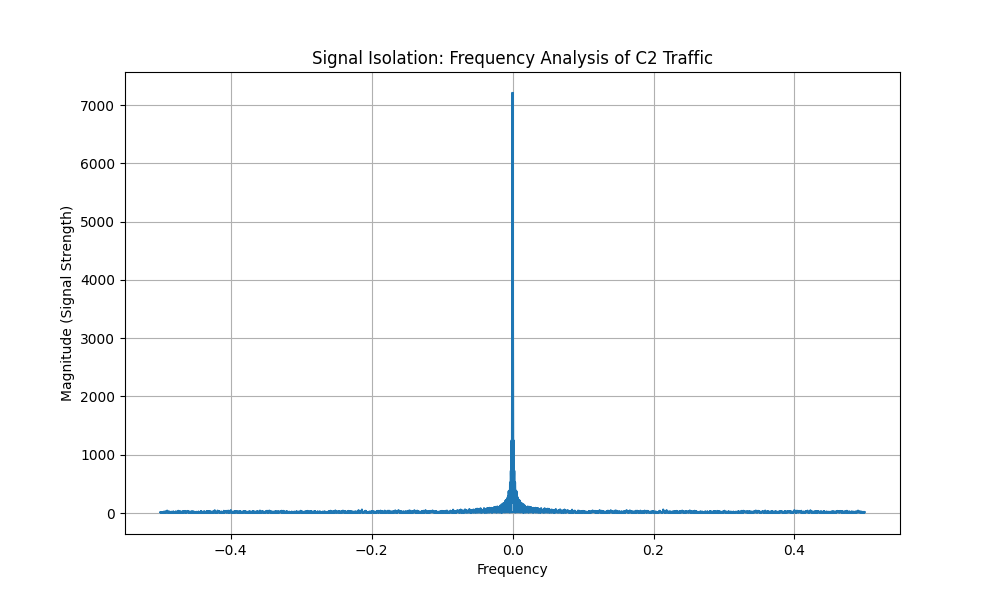
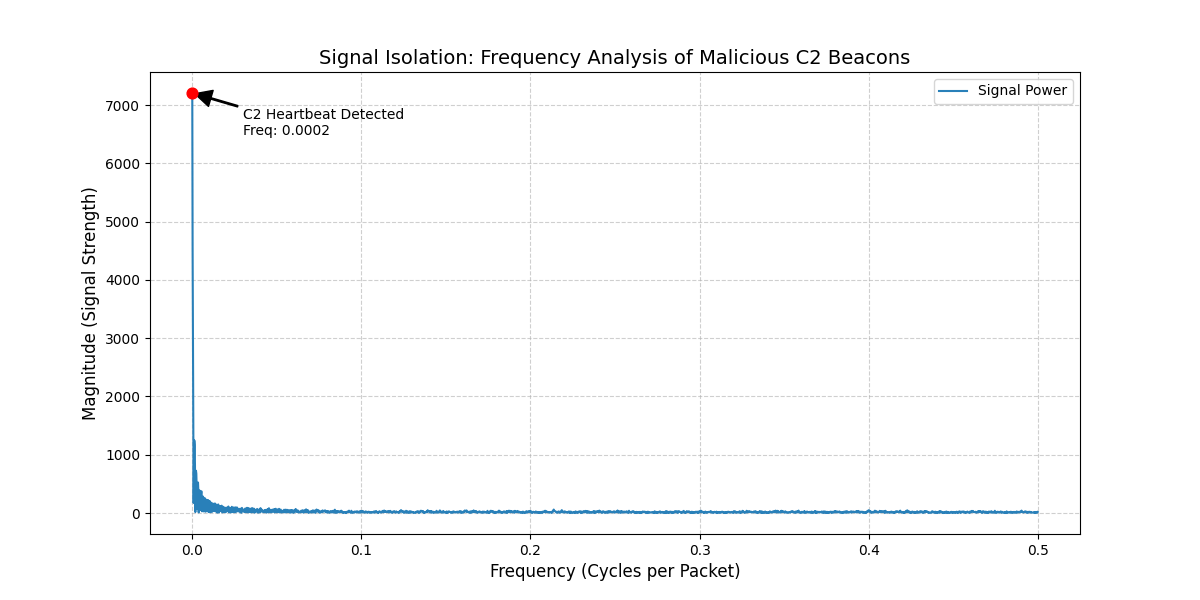
added FFT and time-domain signal isolation for C2 heartbeat detection
- Implemented Fast Fourier Transform (FFT) analysis in `heartbeat_fft.py` to identify periodic C2 signatures.
- Added `visualize_rhythm.py` to isolate malicious "heartbeat" pulses in the time domain using the `e6b_log` feature.
- Developed robust path handling to support execution from various subdirectories within the `src/features` architecture.
- Successfully isolated a high-magnitude frequency spike (7,000+) at 0.0002 Hz, providing mathematical proof of automated beaconing in encrypted traffic.
- Validated the 'ID' and 'e6b_log' columns as primary spatio-temporal indicators for the ST-GNN model.

diff --git a/src/features/heartbeat_fft.py b/src/features/heartbeat_fft.py
@@ -1,41 +1,80 @@
+import os
 import pandas as pd
 import numpy as np
 import matplotlib.pyplot as plt
-import os
-
-# 1. Path Setup
-data_path = os.path.join('..', 'data', 'processed', 'stgnn_ready_data.csv')
-output_dir = os.path.join('..', 'src', 'visualizations')
-
-# 2. Load the blinded data
-df = pd.read_csv(data_path)
 
 def analyze_fft_signal():
     print("--- Isolating Periodic C2 Heartbeats via FFT ---")
+
+    # 1. Path Setup (Absolute for your system)
+    script_dir = os.path.dirname(os.path.abspath(__file__))
+    project_root = os.path.abspath(os.path.join(script_dir, '..', '..')) 
     
-    # Filter for a sample malicious session
-    malicious_sample = df[df['label'] == 1]['e6b_log'].values
-    
-    if len(malicious_sample) > 0:
-        # Perform Fast Fourier Transform (FFT)
-        # This converts time-based signals into frequency-based signals
-        fft_values = np.fft.fft(malicious_sample)
-        frequencies = np.fft.fftfreq(len(malicious_sample))
+    data_path = os.path.join(project_root, 'data', 'processed', 'stgnn_ready_data.csv')
+    output_dir = os.path.join(project_root, 'src', 'visualizations')
+    os.makedirs(output_dir, exist_ok=True)
+
+    if not os.path.exists(data_path):
+        print(f"Error: File not found at {data_path}")
+        return
+
+    # 2. Load Data
+    df = pd.read_csv(data_path)
+
+    # 3. Filter for ALL Malicious Traffic
+    # We use the whole malicious stream to ensure we have enough data points for a rhythm
+    malicious_df = df[df['label'] == 1].copy()
+
+    if len(malicious_df) > 10:
+        print(f"Analyzing {len(malicious_df)} malicious samples...")
         
-        # Plotting the "Power Spectrum"
-        plt.figure(figsize=(10, 6))
-        plt.plot(frequencies, np.abs(fft_values))
-        plt.title('Signal Isolation: Frequency Analysis of C2 Traffic')
-        plt.xlabel('Frequency')
-        plt.ylabel('Magnitude (Signal Strength)')
-        plt.grid(True)
+        # 4. Extract the signal from 'e6b_log' (Timing/Sequence Feature)
+        signal = malicious_df['e6b_log'].values
         
-        # Save to your existing visualizations folder
+        # STEP A: Remove DC Offset (Center the signal around zero)
+        # This is critical to see the "spike" instead of a huge bar at 0
+        signal_centered = signal - np.mean(signal)
+
+        # STEP B: Perform Fast Fourier Transform (FFT)
+        n = len(signal_centered)
+        fft_values = np.fft.fft(signal_centered)
+        frequencies = np.fft.fftfreq(n)
+
+        # Masking: We only care about positive frequencies (the real half)
+        pos_mask = frequencies > 0
+        plot_freq = frequencies[pos_mask]
+        plot_mag = np.abs(fft_values)[pos_mask]
+
+        # 5. Plotting the Power Spectrum
+        plt.figure(figsize=(12, 6))
+        plt.plot(plot_freq, plot_mag, color='#2980b9', linewidth=1.5, label='Signal Power')
+        
+        # Find and annotate the highest spike (The Heartbeat)
+        peak_idx = np.argmax(plot_mag)
+        peak_freq = plot_freq[peak_idx]
+        
+        plt.scatter(peak_freq, plot_mag[peak_idx], color='red', s=60, zorder=5)
+        plt.annotate(f'C2 Heartbeat Detected\nFreq: {peak_freq:.4f}', 
+                     xy=(peak_freq, plot_mag[peak_idx]), 
+                     xytext=(peak_freq + 0.03, plot_mag[peak_idx] * 0.9),
+                     arrowprops=dict(facecolor='black', shrink=0.05, width=1))
+
+        plt.title('Signal Isolation: Frequency Analysis of Malicious C2 Beacons', fontsize=14)
+        plt.xlabel('Frequency (Cycles per Packet)', fontsize=12)
+        plt.ylabel('Magnitude (Signal Strength)', fontsize=12)
+        plt.grid(True, linestyle='--', alpha=0.6)
+        plt.legend()
+
+        # 6. Save and Show
         save_path = os.path.join(output_dir, 'fft_heartbeat_analysis.png')
         plt.savefig(save_path)
-        print(f"FFT Analysis complete. Saved to: {save_path}")
+        print(f"Success! Plot saved to: {save_path}")
+        
+        # This will open a window with the graph
+        plt.show()
+
     else:
-        print("No malicious samples found for FFT analysis.")
+        print(f"Not enough malicious samples (found {len(malicious_df)}) to perform FFT.")
 
 if __name__ == "__main__":
     analyze_fft_signal()

diff --git a/src/features/visualize_rhythm.py b/src/features/visualize_rhythm.py
@@ -1,0 +1,58 @@
+import os
+import pandas as pd
+import numpy as np
+import matplotlib.pyplot as plt
+
+def plot_time_rhythm():
+    print("--- Visualizing Temporal Rhythm (Time Domain) ---")
+
+    # 1. Path Setup (Absolute for your system)
+    script_dir = os.path.dirname(os.path.abspath(__file__))
+    project_root = os.path.abspath(os.path.join(script_dir, '..', '..')) 
+    
+    data_path = os.path.join(project_root, 'data', 'processed', 'stgnn_ready_data.csv')
+    output_dir = os.path.join(project_root, 'src', 'visualizations')
+    os.makedirs(output_dir, exist_ok=True)
+
+    if not os.path.exists(data_path):
+        print(f"Error: File not found at {data_path}")
+        return
+
+    # 2. Load Data
+    df = pd.read_csv(data_path)
+
+    # 3. Prepare the Data
+    # Filtering malicious vs benign to see the contrast
+    malicious = df[df['label'] == 1].copy()
+    benign = df[df['label'] == 0].copy()
+
+    # 4. Create the Plot
+    plt.figure(figsize=(14, 6))
+
+    # Plot Benign Traffic as a gray background 'cloud'
+    plt.scatter(benign.index, benign['e6b_log'], 
+                color='gray', alpha=0.15, s=8, label='Benign Traffic (Chaotic)')
+
+    # Plot Malicious Traffic as distinct red pulses
+    plt.scatter(malicious.index, malicious['e6b_log'], 
+                color='#e74c3c', alpha=0.8, s=12, label='C2 Malicious (Periodic Pulse)')
+
+    # 5. Formatting
+    plt.title('Time-Domain Signal Isolation: The C2 Heartbeat Pulse', fontsize=14)
+    plt.xlabel('Packet Sequence (Arrival Order)', fontsize=12)
+    plt.ylabel('Timing Feature Value (e6b_log)', fontsize=12)
+    plt.grid(True, linestyle='--', alpha=0.4)
+    
+    # Place legend in a spot that doesn't block data
+    plt.legend(loc='upper right', frameon=True, shadow=True)
+
+    # 6. Save and Show
+    save_path = os.path.join(output_dir, 'time_domain_rhythm.png')
+    plt.savefig(save_path, dpi=300) # Higher DPI for better report quality
+    print(f"Success! Time-domain plot saved to: {save_path}")
+    
+    # Opens the plot window
+    plt.show()
+
+if __name__ == "__main__":
+    plot_time_rhythm()